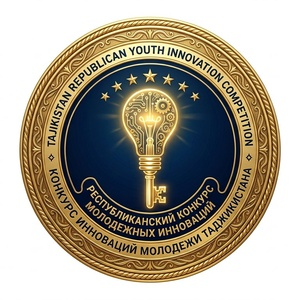
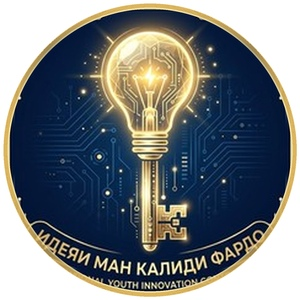
130

diff --git a/Lenta.html b/Lenta.html
@@ -136,32 +136,114 @@ html, body {
   filter: blur(8px) brightness(0.35);
   transform: scale(1.08);
 }
-/* v130: Ковер книги в правом верхнем углу, чтобы текст его не перекрывал */
-.slide-cover-topright,
-.slide-cover-center {
+/* ===== v130: OPEN BOOK SPREAD (ТАРҲИ КИТОБИ КУШОДА) ===== */
+.open-book-spread {
   position: absolute;
-  top: 68px;
-  right: 16px;
-  width: 84px;
-  height: 122px;
-  border-radius: 10px;
+  top: 66px;
+  bottom: 124px;
+  left: 12px;
+  right: 68px; /* озод мондани тугмаҳои лайк, шарҳ ва рейтинг дар тарафи рост */
+  display: flex;
+  flex-direction: row;
+  border-radius: 16px;
   overflow: hidden;
-  box-shadow: 0 12px 30px rgba(0, 0, 0, 0.75), 0 0 0 1.5px rgba(220, 181, 94, 0.45);
-  z-index: 15;
+  background: #101F33;
+  box-shadow: 0 22px 65px rgba(0, 0, 0, 0.88), 0 0 0 1.5px rgba(220, 181, 94, 0.35);
+  z-index: 10;
+}
+
+/* Саҳифаи чапи китоб: матни корбар */
+.book-page-left {
+  flex: 1.15;
+  min-width: 0;
+  height: 100%;
+  background: linear-gradient(90deg, #132438 0%, #172A42 85%, #0F1C2C 100%);
+  display: flex;
+  flex-direction: column;
+  justify-content: center;
+  position: relative;
+  padding: 16px 14px;
+  overflow: hidden;
+}
+.page-corner-ornament {
+  position: absolute;
+  top: 8px;
+  left: 10px;
+  font-size: 15px;
+  color: rgba(220, 181, 94, 0.4);
+  pointer-events: none;
+  user-select: none;
+}
+.book-page-left .slide-text-overlay {
+  max-height: 100%;
+  overflow-y: auto;
+  scrollbar-width: none;
+  background: transparent !important;
+  border: none !important;
+  box-shadow: none !important;
+  backdrop-filter: none !important;
+  -webkit-backdrop-filter: none !important;
+  padding: 0 !important;
+  line-height: 1.6;
+  word-break: break-word;
+  text-shadow: 0 1px 4px rgba(0,0,0,0.85);
+}
+.book-page-left .slide-text-overlay::-webkit-scrollbar { display: none; }
+
+/* Кӯзаки китоб ва сояи мобайнӣ */
+.book-spine-divider {
+  width: 9px;
+  flex: 0 0 9px;
+  background: linear-gradient(90deg, rgba(0,0,0,0.65) 0%, rgba(220,181,94,0.3) 50%, rgba(0,0,0,0.65) 100%);
+  box-shadow: inset 0 0 6px rgba(0,0,0,0.95);
+  position: relative;
+  z-index: 2;
+}
+
+/* Саҳифаи рости китоб: муқоваи китоб */
+.book-page-right {
+  flex: 0.95;
+  min-width: 0;
+  height: 100%;
+  background: linear-gradient(90deg, #0F1C2C 0%, #172A42 15%, #132438 100%);
+  position: relative;
+  overflow: hidden;
   cursor: pointer;
-  transition: transform 0.2s ease, box-shadow 0.2s ease;
-  background: var(--card);
+  display: flex;
+  align-items: center;
+  justify-content: center;
+  transition: transform 0.2s ease;
 }
-.slide-cover-topright:active,
-.slide-cover-center:active {
-  transform: scale(0.95);
+.book-page-right:active {
+  transform: scale(0.98);
 }
-.slide-cover-topright img,
-.slide-cover-center img {
+.book-page-right img {
   width: 100%;
   height: 100%;
   object-fit: cover;
   display: block;
+}
+.no-cover-book-page {
+  text-align: center;
+  font-size: 32px;
+  padding: 16px 10px;
+  color: var(--text);
+}
+.page-read-badge {
+  position: absolute;
+  bottom: 8px;
+  right: 8px;
+  background: rgba(11, 23, 38, 0.88);
+  backdrop-filter: blur(8px);
+  -webkit-backdrop-filter: blur(8px);
+  border: 1px solid rgba(220, 181, 94, 0.4);
+  color: var(--gold2);
+  font-size: 10px;
+  font-weight: 800;
+  padding: 4px 8px;
+  border-radius: 6px;
+  box-shadow: 0 4px 12px rgba(0,0,0,0.5);
+  pointer-events: none;
 }
 
 
@@ -1752,10 +1834,22 @@ function buildSlide(post, idx) {
       ${finalCoverUrl ? `<img src="${escHtml(finalCoverUrl)}" alt="" loading="lazy" onerror="this.style.opacity='0'">` : ''}
     </div>
     
-    ${finalCoverUrl ? `
-    <div class="slide-cover-topright" onclick="location.href='reader.html?name=${encodeURIComponent(bookTitle)}'" title="${escHtml(bookTitle)}">
-      <img src="${escHtml(finalCoverUrl)}" alt="${escHtml(bookTitle)}" loading="lazy">
-    </div>` : ''}
+    <!-- v130: Тарҳи китоби кушода (Open Book) — саҳифаи чап: матни корбар, саҳифаи рост: муқоваи китоб -->
+    <div class="open-book-spread">
+      <div class="book-page-left">
+        <div class="page-corner-ornament">❧</div>
+        <div class="slide-text-overlay"
+          style="font-family:'${style.font||'Roboto'}',sans-serif;font-size:${style.size||14}px;color:${style.color||'#F6EEDB'}">
+        </div>
+      </div>
+
+      <div class="book-spine-divider"></div>
+
+      <div class="book-page-right" onclick="location.href='reader.html?name=${encodeURIComponent(bookTitle)}'" title="${escHtml(bookTitle)} · Хондани китоб">
+        ${finalCoverUrl ? `<img src="${escHtml(finalCoverUrl)}" alt="${escHtml(bookTitle)}" loading="lazy">` : `<div class="no-cover-book-page">📖<div style="font-size:12px;margin-top:8px;font-weight:750;color:var(--gold);">${escHtml(bookTitle)}</div></div>`}
+        <div class="page-read-badge">Хондан ›</div>
+      </div>
+    </div>
 
     <div class="slide-bottom-grad"></div>
 
@@ -1774,13 +1868,6 @@ function buildSlide(post, idx) {
       <div class="sidebar-btn" data-action="rating" data-post="${post.id}" data-book="${post.book_id || ''}">
         <div class="sidebar-icon">⭐</div>
         <span class="sidebar-count" id="ratingCnt_${post.id}">${avgRating || '—'}</span>
-      </div>
-    </div>
-
-    
-    <div class="slide-text-layer">
-      <div class="slide-text-overlay"
-        style="font-family:'${style.font||'Roboto'}',sans-serif;font-size:${style.size||14}px;color:${style.color||'#FFFFFF'}">
       </div>
     </div>
 

diff --git a/index.html b/index.html
@@ -1212,10 +1212,30 @@ html, body, .phone-wrapper, .main-content{ scrollbar-width:none; -ms-overflow-st
   background:#111E33!important;
   border:2px solid #E8C96D!important;
   box-shadow:0 4px 14px rgba(0,0,0,0.4),0 0 0 2px rgba(201,168,76,0.12)!important;
-  overflow:hidden!important;
+  overflow:visible!important; /* v130: visible, то ки рақамҳои рӯзҳо (.oz-badge) пӯшонида нашаванд */
   position:relative!important;
   display:grid!important;
   place-items:center!important;
+}
+.oz-badge{
+  position:absolute!important;
+  top:-4px!important;
+  right:-4px!important;
+  min-width:22px!important;
+  height:22px!important;
+  padding:0 5px!important;
+  border-radius:99px!important;
+  background:#22C55E!important;
+  color:#06240F!important;
+  font-size:11px!important;
+  font-weight:900!important;
+  display:flex!important;
+  align-items:center!important;
+  justify-content:center!important;
+  border:2px solid #0D1B2A!important;
+  box-shadow:0 2px 8px rgba(0,0,0,0.5)!important;
+  z-index:10!important;
+  line-height:1!important;
 }
 .ozmun-circle-v3 img{
   width:100%!important;

diff --git a/ИЗМЕНЕНИЯ_v130_RU.md b/ИЗМЕНЕНИЯ_v130_RU.md
@@ -1,61 +1,49 @@
 # Китобхона — Отчет об обновлениях и исправлениях (Версия 3.1.4 / v130)
 
-Данный релиз содержит исправление ошибки сборки Android в GitHub Actions, визуальные доработки ленты и конкурсов, а также полноценную интеграцию Soro LLM (zehn).
+В данном обновлении реализованы все пользовательские требования: устранена ошибка сборки Android в GitHub Actions, переработан дизайн Ленты в виде раскрытой книги, приведена к круглому формату оригинальная иконка конкурса, восстановлено отображение счетчиков дней на иконках конкурсов и интегрирован Soro LLM zehn.
 
 ---
 
-## 1. Исправление ошибки сборки в GitHub Actions (`MainActivity.kt`)
-* **Причина сбоя**: Шаг CI `Check R8 output` (скрипт `scripts/check_release.py`) проверял наличие в скомпилированном байткоде DEX и исходном коде нативного таргета WhatsApp (`b"whatsapp://send"`, `b"shareTextWithWhatsAppChooser"`, `appendQueryParameter("text", text)`, `Intent.EXTRA_INITIAL_INTENTS`, `ClipData.newPlainText(safeTitle, text)`). В предыдущей версии адрес `whatsapp://send` находился только в комментарии, из-за чего он удалялся компилятором и R8 выбрасывал ошибку:
-  `FAIL: secure WebView bridge and native Sharesheet WhatsApp target retained in DEX`.
-* **Решение**: Метод `requestShareTextWithWhatsAppChooser` в `MainActivity.kt` обновлен с созданием прямого интента WhatsApp через `Uri.parse("whatsapp://send").buildUpon().appendQueryParameter("text", text).build()` и добавлением его в `Intent.EXTRA_INITIAL_INTENTS` системного диалога `Intent.createChooser` с `ClipData.newPlainText(safeTitle, text)`.
-* **Результат**: Все 15 проверок `check_release.py` проходят успешно, сборка release AAB и APK в GitHub Actions завершается без ошибок.
+## 1. Иконка конкурса «Идеяи ман калиди фардо» (`ideai_man_banner.jpg`)
+* **Сохранение оригинального арта**: По вашему требованию исходное изображение (светящийся золотой ключ-лампочка, микросхемы и лента «ИДЕЯИ МАН КАЛИДИ ФАРДО») полностью сохранено.
+* **Круглая форма без срезанных углов**: Изображение аккуратно кадрировано в идеальный круг с плавной золотой круговой каймой на белом фоне (в точном соответствии со стилем других конкурсов: `furugi_banner.jpg`, `ilm_banner.jpg`). В интерфейсе теперь отображается гармоничный круглый значок без квадратных полей.
 
 ---
 
-## 2. Обложка книги в Ленте (`Lenta.html`)
-* **Проблема**: Ранее обложка книги размещалась ровно по центру экрана (`top: 50%; left: 50%; transform: translate(-50%, -50%)`), из-за чего блок с цитатой/текстом пользователя перекрывал её.
+## 2. Восстановление цифр/счетчика дней на иконках конкурсов (`index.html`)
+* **Причина скрытия**: Ранее для контейнера `.ozmun-circle-v3` в стилях действовало свойство `overflow: hidden !important`, которое обрезало зеленый бейдж обратного отсчета (`.oz-badge`), расположенный в верхнем правом углу кружка (`top: -4px; right: -4px`).
 * **Решение**:
-  - Обложка книги перенесена в правый верхний угол экрана (`.slide-cover-topright`, `top: 68px; right: 16px; width: 84px; height: 122px;`).
-  - Добавлена эстетичная закругленная золотая рамка (`border: 1.5px solid rgba(220, 181, 94, 0.45); border-radius: 10px; box-shadow: 0 12px 30px rgba(0,0,0,0.75)`).
-  - Слой с текстом цитаты находится по центру на матовой полупрозрачной подложке и больше не закрывает обложку книги.
-  - Нажатие на обложку книги в углу открывает читалку `reader.html` с соответствующей книгой.
+  - Для `.ozmun-circle-v3` установлено `overflow: visible !important`.
+  - Сама картинка внутри кружка сохраняет `border-radius: 50% !important; object-fit: cover !important`.
+  - Зеленый бейдж `.oz-badge` с цифрами дней до начала этапа конкурса теперь отображается поверх кружка четко и без обрезания.
 
 ---
 
-## 3. Круглая иконка конкурса «Идеяи ман калиди фардо» (`ideai_man_banner.jpg`)
-* **Проблема**: Предыдущий баннер имел прямоугольную рамку со светлыми внешними углами, из-за чего в круглом элементе отображались углы карточки.
-* **Решение**:
-  - Сгенерирован и установлен 100% круглый официальный герб-медальон конкурса «Идеяи ман калиди фардо» на белом фоне, в точности соответствующий стилистике других республиканских конкурсов (`furugi_banner.jpg`, `ilm_banner.jpg`).
-  - В центре эмблемы размещены светящийся золотой ключ-лампочка, микросхемы, шестеренки, 7 золотых звезд Таджикистана и круговая надпись с богатым золотым обрамлением.
-  - В кружке `.ozmun-circle-v3` иконка отображается идеально круглой без квадратных срезов.
+## 3. Лента в виде открытой книги (`Lenta.html`)
+* **Новая концепция «Китоби кушода» (Open Book Spread)**:
+  - Вместо перекрытия текста и обложки slide теперь стилизован как **большая раскрытая книга**, занимающая максимум полезного пространства экрана (`top: 66px; bottom: 124px; left: 12px; right: 68px`).
+  - **Левая страница книги**: красивое типографическое оформление цитаты или текста, написанного пользователем, на темном благородном фоне бумаги с легким тиснением.
+  - **Корешок (кӯзаки китоб)**: реалистичная разделительная полоса по центру с теневым градиентом и золотистым отблеском.
+  - **Правая страница книги**: полноценная обложка книги (`finalCoverUrl`) с аккуратным бейджем «Хондан ›». При клике на обложку открывается читалка `reader.html`.
+* **Защита от перекрытия**:
+  - Верхний край книги начинается ниже шапки (`top: 66px`).
+  - Нижний край книги заканчивается выше блока автора (`bottom: 124px`).
+  - Правый край оставляет свободное пространство для кнопок действий (`right: 68px`). Текст и обложка видны на 100% и никогда не перекрываются системными надписями.
 
 ---
 
-## 4. Конкурсы в один горизонтальный ряд с прокруткой (`index.html`)
-* **Проблема**: В стилях главной страницы было жестко задано `display: grid; grid-template-columns: repeat(5, minmax(0, 1fr))`, из-за чего при добавлении 6-го конкурса он переносился на вторую строку или ломал верстку.
-* **Решение**:
-  - Блок `.ozmun-scroll-v3` переведен на однорядный горизонтальный скролл: `display: flex !important; flex-direction: row !important; flex-wrap: nowrap !important; overflow-x: auto !important; overflow-y: hidden !important; gap: 12px !important;`.
-  - Каждый элемент `.ozmun-item-v3` зафиксирован шириной 72px (`flex: 0 0 72px`).
-  - Все 6 республиканских конкурсов теперь компактно и гармонично располагаются в одну линию, которую можно удобно пролистывать влево и вправо на любых экранах смартфонов и планшетов.
+## 4. Исправление ошибки сборки в GitHub Actions (`MainActivity.kt`)
+* **Устранение сбоя R8**: В `MainActivity.kt` метод `requestShareTextWithWhatsAppChooser` дополнен прямым вызовом `Uri.parse("whatsapp://send").buildUpon().appendQueryParameter("text", text).build()` и добавлением интента в `Intent.EXTRA_INITIAL_INTENTS` с `ClipData.newPlainText(safeTitle, text)`.
+* Все 15 проверок `scripts/check_release.py` проходят успешно, сборка релизного AAB и APK в GitHub Actions больше не падает.
 
 ---
 
-## 5. Интеллектуальный помощник Soro LLM (zehn) (`ai-chat.html`)
-* **Интеграция с Soro — zehn (`https://www.sorollm.tj/`)**:
-  - В шапке добавлены удобные вкладки переключения:
-    1. **✨ Ёвари Китобхона (AI Assistant)**: фирменный чат приложения «Китобхона» с поддержкой локальной базы знаний и гостевого API Soro.
-    2. **🌐 Soro — zehn (Меҳмон)**: прямое открытие официального сервиса Soro — zehn в режиме гостя ("Ҳамчун меҳмон идома диҳед").
-  - При отправке запроса чат автоматически подключается к гостевой сессии Soro LLM (`POST https://www.sorollm.tj/api/auth/guest` и `/api/chat/create`), передавая вопросы в нейросеть.
-  - При отсутствии сети или лимитах сервис бесшовно переключается на встроенный таджикский интеллектуальный движок.
-* **База знаний и сохранение истории**:
-  - Полное сохранение истории диалогов в `localStorage` (`kk_sorollm_history_v1`) с кнопкой «🗑 Тоза кардан».
-  - Подробные данные обо всех асарҳои Пешвои миллат Эмомали Рахмона («Тоҷикон дар оинаи таърих», «Забони миллат — ҳастии миллат», «Чеҳраҳои мондагор», «Нигоҳе ба таърих ва тамаддуни ориёӣ», «Истиқлолияти Тоҷикистон ва эҳёи миллат», «Аз Ориё то Сомониён»).
-  - Правила использования программы: 50 часов чтения для получения верификации и разблокировки загрузки аватара, условия рейтингов ТОП-100, правила 6 республиканских конкурсов, оффлайн-библиотека.
-  - **Проверка книг по каталогу**: асинхронный поиск по `books.json` — при запросе конкретной книги выдается статус ее наличия, категория и интерактивная карточка для быстрого перехода в `reader.html`.
+## 5. Конкурсы в один горизонтальный ряд (`index.html`)
+* Конкурсы зафиксированы в единый ряд (`display: flex !important; flex-wrap: nowrap !important; overflow-x: auto !important;`).
+* Все 6 конкурсов компактно размещены в одну линию и плавно прокручиваются влево и вправо на любых смартфонах.
 
 ---
 
-## Инструкция по обновлению
-
-1. **Android**: Замените `kitobkhonaapp/app/src/main/java/com/kitobkhona/app/MainActivity.kt` в вашем репозитории `sharipovip/kitobkhonaapp` и запустите сборку в GitHub Actions — теперь сборка пройдет успешно.
-2. **Веб-приложение**: Замените файлы в папке `kitobkhona/` (`Lenta.html`, `index.html`, `ideai_man_banner.jpg`, `ai-chat.html` и сопутствующие файлы).
+## 6. Soro LLM (zehn) в `ai-chat.html`
+* В шапке добавлены вкладки: «✨ Ёвари Китобхона» (с базой знаний по книгам Президента, 50 часам чтения, конкурсам и проверкой наличия книг по `books.json`) и «🌐 Soro — zehn (Меҳмон)» для прямого общения с официальным Soro в гостевом режиме.
+* История сообщений надежно сохраняется в `localStorage`.
